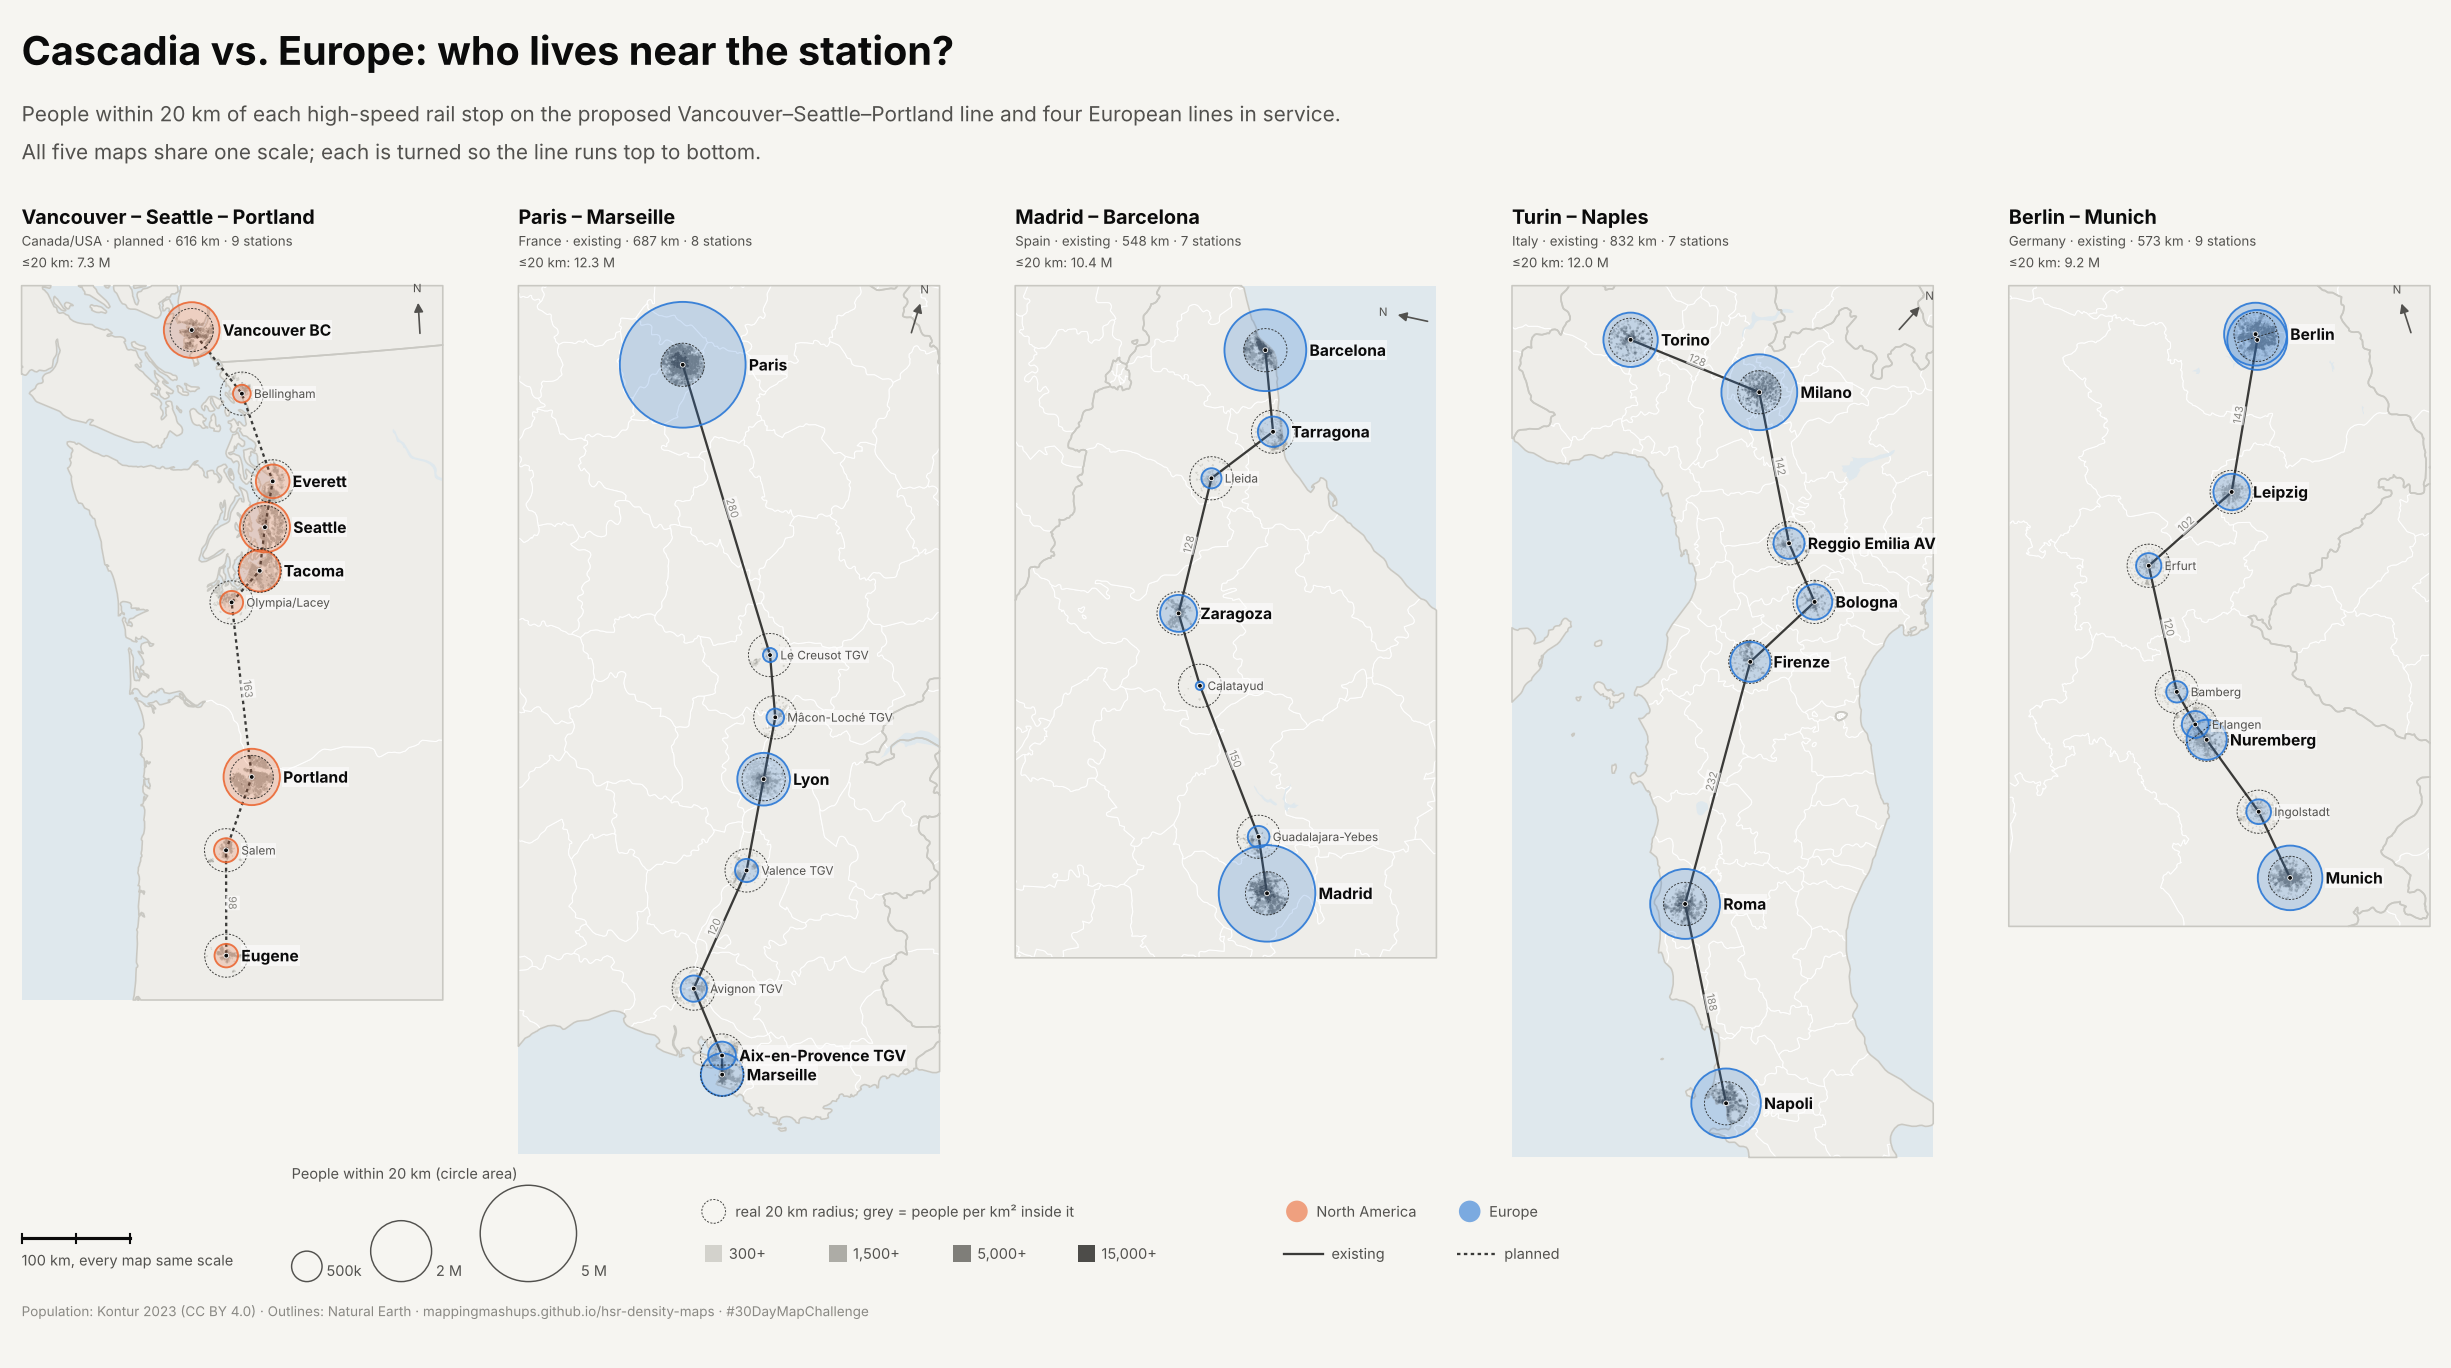
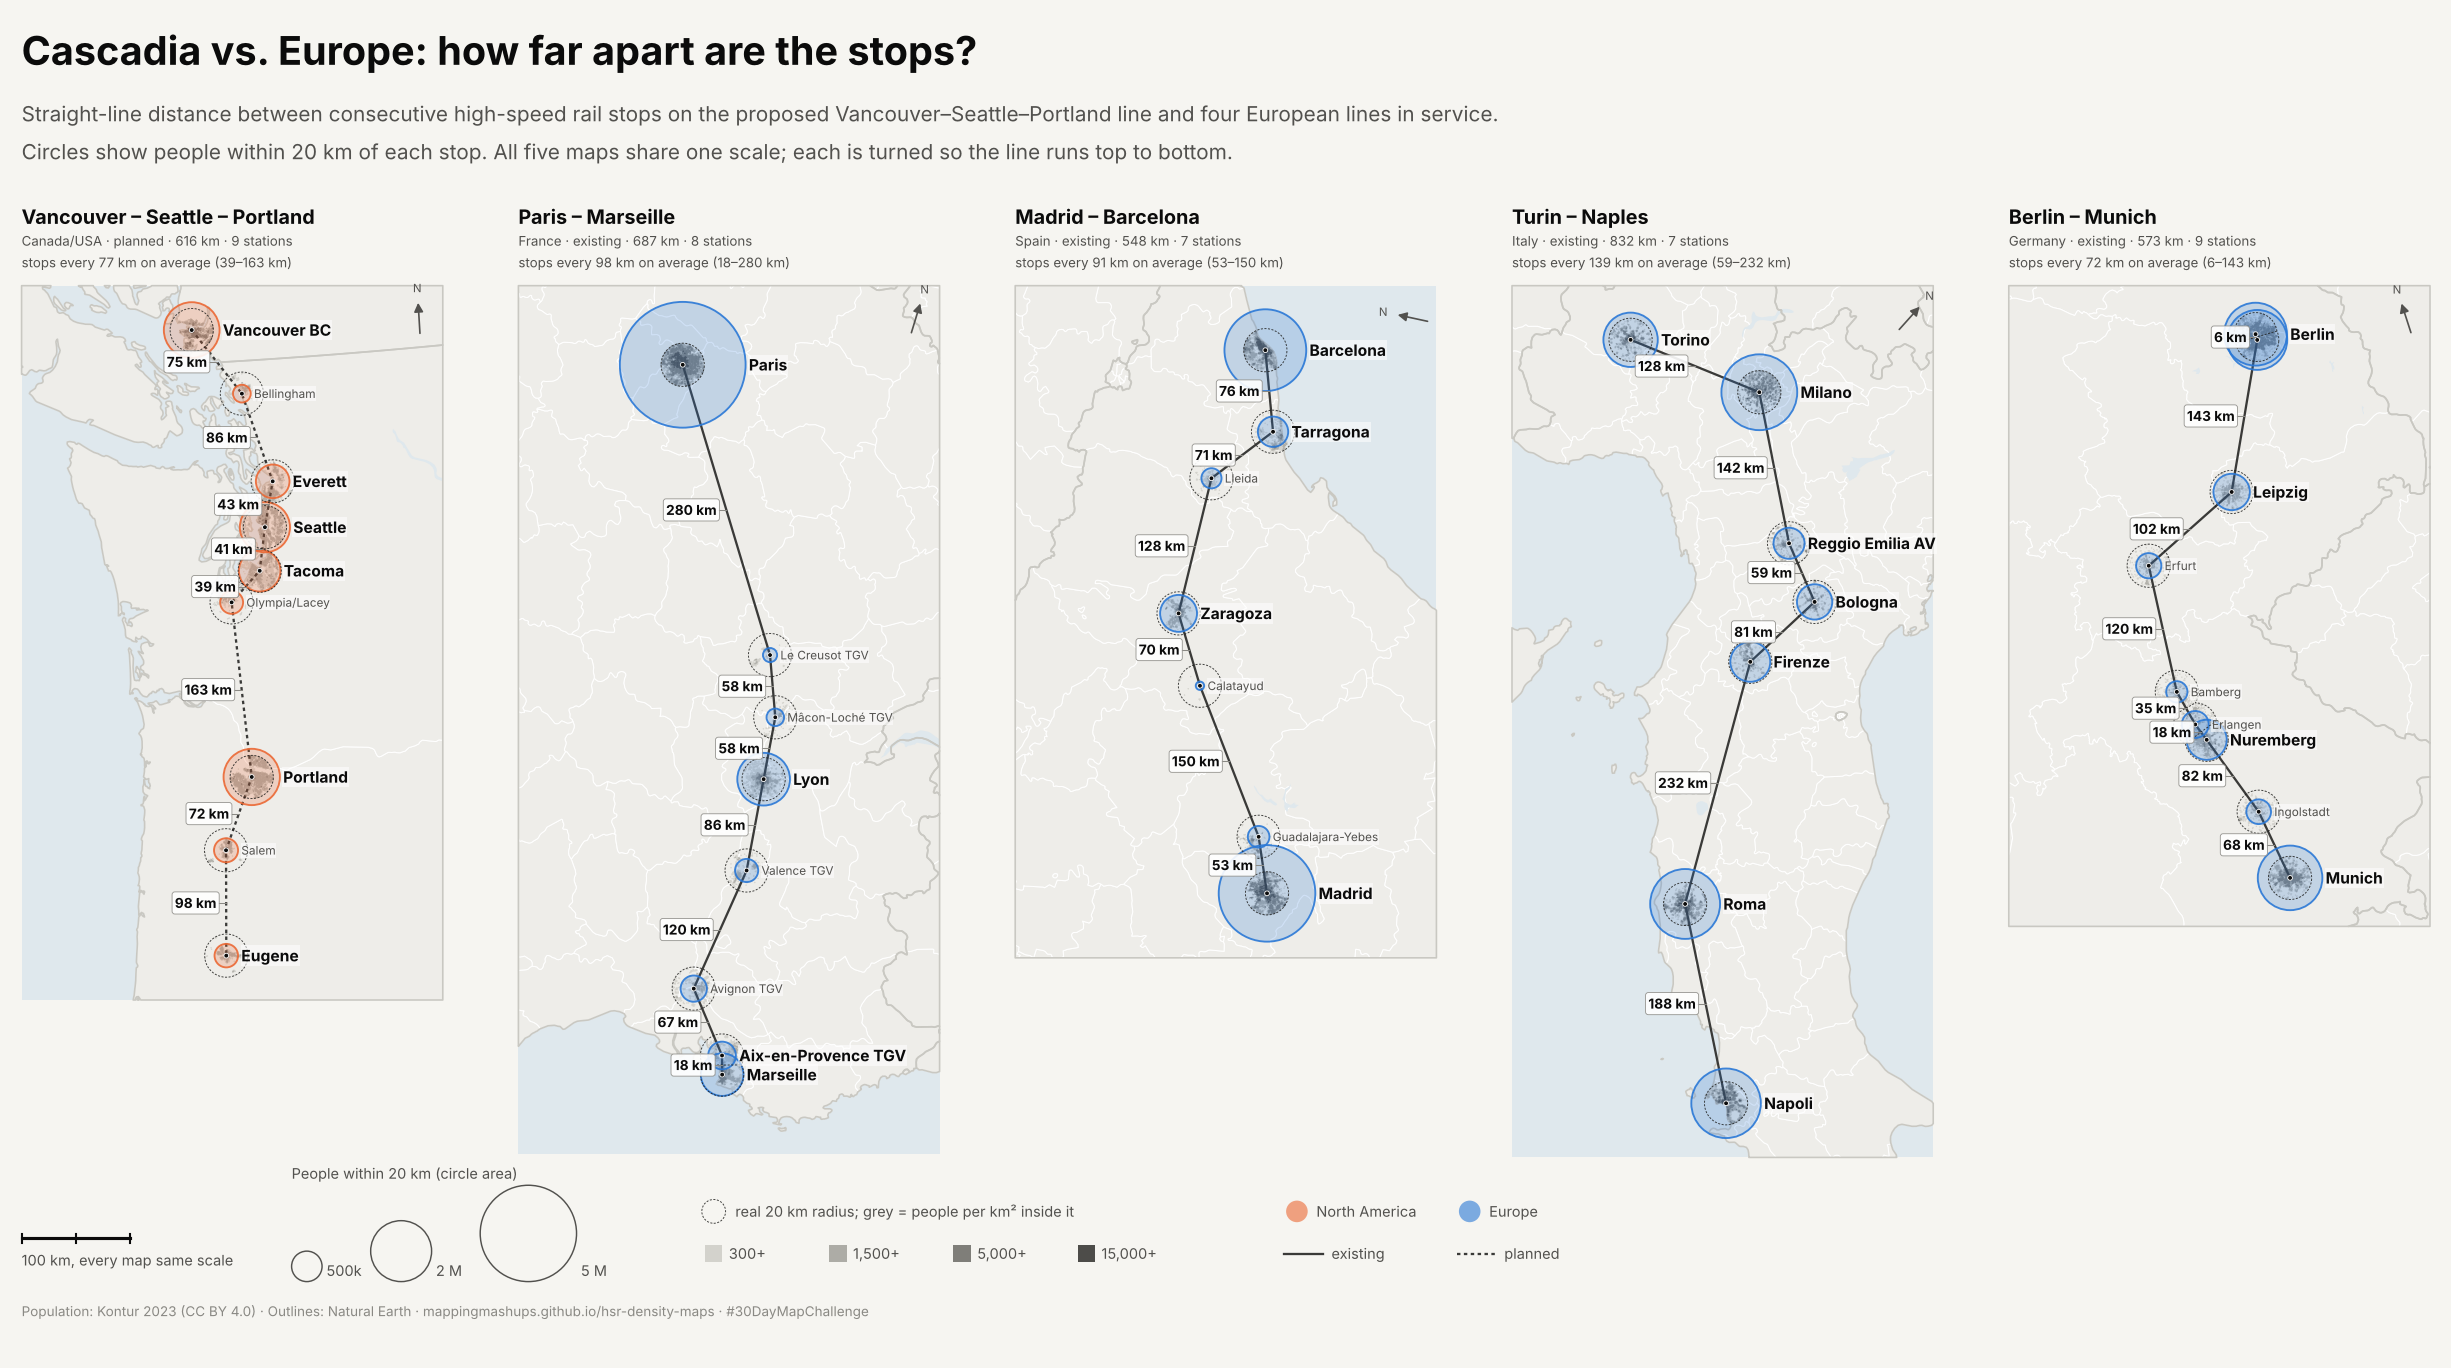
Social image: label every stop-to-stop distance and show average spacing per corridor
Claude-Session: https://claude.ai/code/session_01JpWq1kKE2oNV85oNVQWwXU

diff --git a/plot_maps.py b/plot_maps.py
@@ -213,7 +213,14 @@ def draw(radii, density, fname, title, subtitle, footprint="density", order=None
         ax.plot(xy[:, 0], xy[:, 1], color=LINE, lw=1.1, zorder=3,
                 ls="-" if c["status"] == "existing" else (0, (4, 2)) if c["status"] == "building" else (0, (1.5, 1.5)),
                 solid_capstyle="round")
-        for (a, b), d in zip(zip(xy[:-1], xy[1:]), p["seg"]):
+        if social:   # every gap labelled, upright, just left of the line (station names sit to the right)
+            for (a, b), d in zip(zip(xy[:-1], xy[1:]), p["seg"]):
+                mx, my = (a + b) / 2
+                ax.text(mx - 9, my, f"{d:.0f} km", fontsize=6.6, color=INK, weight="bold", ha="right", va="center",
+                        zorder=6.5, bbox=dict(boxstyle="round,pad=0.2", fc="white", ec=INK3, lw=0.4, alpha=0.9))
+                ax.plot([mx - 8, mx], [my, my], color=INK3, lw=0.5, zorder=6.4)
+        else:
+          for (a, b), d in zip(zip(xy[:-1], xy[1:]), p["seg"]):
             if d >= 90:
                 mx, my = (a + b) / 2
                 ang = np.degrees(np.arctan2(b[1] - a[1], b[0] - a[0]))
@@ -282,6 +289,8 @@ def draw(radii, density, fname, title, subtitle, footprint="density", order=None
         stat = f"{c['country']} · {c['status']} · {route:,.0f} km · {len(sts)} stations"
         ax.text(tx, ty - 26, stat, fontsize=6.4, color=INK2, va="top")
         tot = "   ".join(f"≤{r} km: {totals[r]/1e6:.1f} M" for r in sorted(radii))
+        if social:   # stop spacing instead of population totals
+            tot = f"stops every {np.mean(p['seg']):.0f} km on average ({min(p['seg']):.0f}–{max(p['seg']):.0f} km)"
         ax.text(tx, ty - 46, tot, fontsize=6.4, color=INK2, va="top")
 
     if social:

diff --git a/make_social.py b/make_social.py
@@ -1,5 +1,5 @@
 """Stand-alone same-scale map of a few corridors for social media: title, five panels in
-one row, a one-line key and credits. Run after popcalc.py / extract_hex.py.
+one row with the distance between every pair of stops, a one-line key and credits. Run after popcalc.py / extract_hex.py.
 
 Usage: python make_social.py   -> out/social_cascadia_europe.(png|svg)
 """
@@ -11,7 +11,8 @@ RADIUS, DENSITY = 20, 800   # same radius and circle scale as the page's default
 if __name__ == "__main__":
     pm.PER_ROW = len(ORDER)
     pm.draw([RADIUS], DENSITY, "social_cascadia_europe",
-            "Cascadia vs. Europe: who lives near the station?",
-            f"People within {RADIUS} km of each high-speed rail stop on the proposed Vancouver–Seattle–Portland line "
-            "and four European lines in service.\nAll five maps share one scale; each is turned so the line runs top to bottom.",
+            "Cascadia vs. Europe: how far apart are the stops?",
+            "Straight-line distance between consecutive high-speed rail stops on the proposed Vancouver–Seattle–Portland line "
+            "and four European lines in service.\n"
+            f"Circles show people within {RADIUS} km of each stop. All five maps share one scale; each is turned so the line runs top to bottom.",
             order=ORDER, dpi=150, social=True)

diff --git a/README.md b/README.md
@@ -43,7 +43,7 @@ git-ignored; the published copies are WebP files in `docs/`.
 | Summary charts | `plot_summary.py` | `out/chart_per_km.png`, `out/chart_centralisation.png` |
 | Web page | `build_page.py` (template in `page/template.html`) | `docs/` → GitHub Pages (main branch, `/docs`) |
 | Link-preview image (Slack, social media) | `make_og.py` (needs Playwright + Chromium) | `docs/og.png` |
-| Same-scale social-media image: Cascadia against France, Spain, Italy and Germany at 20 km, with title, key and credits | `make_social.py` | `docs/social_cascadia_europe.png` |
+| Same-scale social-media image: Cascadia against France, Spain, Italy and Germany, every stop-to-stop distance labelled, 20 km circles, title, key and credits | `make_social.py` | `docs/social_cascadia_europe.png` |
 | Animated comparison GIF (radius sweep); `make_gif.py LEFT RIGHT [--slide KM] [--flip-left] [--flip-right] [--mp4]` for any pair; `--mp4` adds a 1080×1080 Instagram video in `out/` (not committed) | `make_gif.py` (needs Playwright + Chromium, ffmpeg) | `docs/compare_<left>_<right>_radius.gif` |
 
 To recompute one corridor after editing `stations.py`: `python popcalc.py kontur <id>` and
